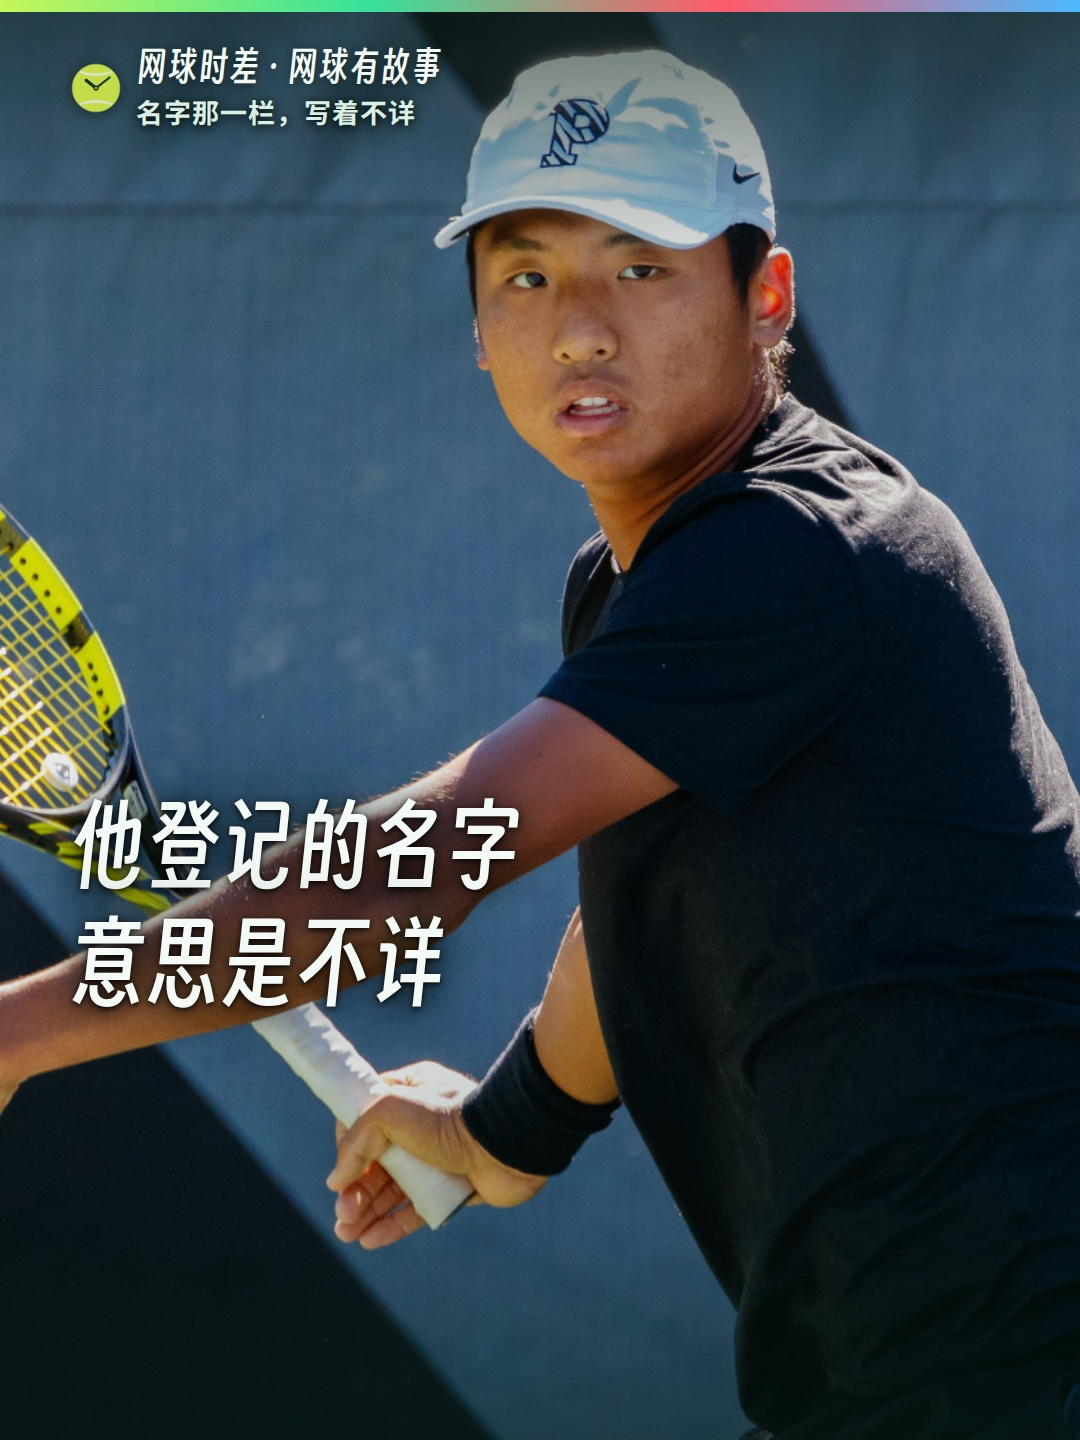
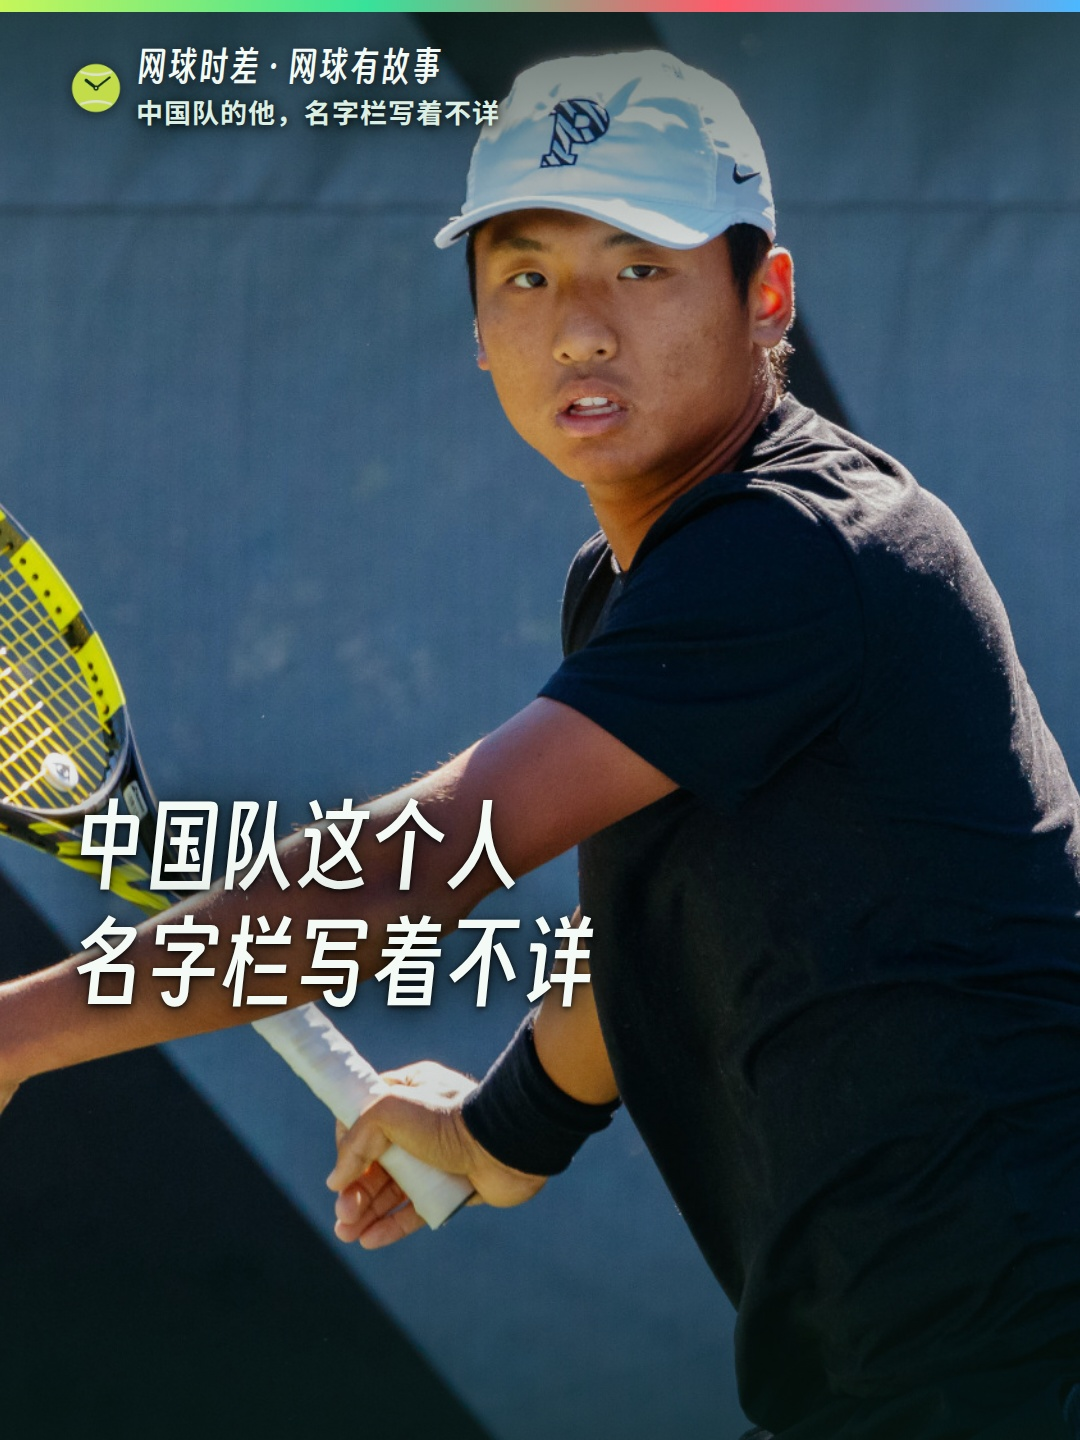
reel: render fnu-first-name-unknown

Changed region(s): [[0.0611, 0.5312, 0.55, 0.7188], [0.1222, 0.0625, 0.4889, 0.0938]]

diff --git a/output/2026-09-22/reel/fnu-first-name-unknown/copy.html b/output/2026-09-22/reel/fnu-first-name-unknown/copy.html
@@ -46,21 +46,23 @@
     </section>
     <section>
       <div class="label"><span>正文</span><button type="button" data-copy="body">复制正文</button></div>
-      <textarea id="body" readonly>尼敦坚赞：名字那一栏，系统写着「不详」
+      <textarea id="body" readonly>尼敦坚赞：中国队这名球员，名字栏写着「不详」
 
-国际网联的数据库里，中国队有一个球员的名字分成两栏。姓那一栏是 Nidunjianzan，名那一栏，写着三个字母：Fnu。
+国际网球联合会的球员数据库里，每个人的名字都分成两栏：姓，和名。
 
-Fnu 不是名字，是 First Name Unknown 的缩写——名字不详。
+中国队的尼敦坚赞，姓那一栏写着 Nidunjianzan，名那一栏写着三个字母：Fnu。
 
-这是美国政府系统的一个占位符。移民局、海关、国务院、留学生系统、社保，这几套系统的姓名模型都只有两栏：Given Name 和 Family Name。一个只有一个名字的人进来，系统填不满两栏，就往空的那一栏塞一个标记。
+Fnu 不是名字。它是 First Name Unknown 的缩写，意思就是「名字不详」。
 
-他叫尼敦坚赞，藏族，六岁以前住在拉萨。藏族的名字不分姓和名——他母亲、他父亲和他，三个人的名字各不相同，没有一个共同的姓。
+这三个字母是美国政府替他填的。美国的证件系统——签证、学籍、社保——姓名都只有两栏，一个人如果只有一个名字，系统填不满，就往空的那一栏塞一个标记。（对应的还有 LNU，Last Name Unknown。）
 
-普林斯顿大学体育部 2023 年为他写过一篇专题。里面提到，他小时候那个地区只有一片球场，后来那片场地上盖起了一家便利店。六岁那年他跟着母亲从拉萨搬到成都，也是那一年，他在成都看了一场表演赛，桑普拉斯输给了鲁塞德斯基。
+他当然有名字。尼敦坚赞是藏族，六岁以前住在拉萨。藏族人的名字不分姓和名——他母亲、他父亲和他，三个人的名字各不相同，没有一个共同的姓。
 
-后来他去了美国，进了普林斯顿。2023 年 5 月拿到职业生涯第一个冠军，ATP 单打最高排名到过第 800 位。那篇专题的开头写着：1973 年 ATP 开始发布单打排名，而在那之后，出生在西藏、拿到过积分的球员，只有他一个。
+六岁那年，他跟着母亲从拉萨搬到成都。再后来一个人去了美国，先在佛罗里达的网球学校念书，最后考进普林斯顿大学。于是他整个名字被塞进了「姓」那一栏，「名」那一栏，美国政府替他填了 Fnu——而这个标记一路跟到了职业网球的登记表上。
 
-2026 年 9 月戴维斯杯，中国队客场 0-4 负于挪威。挪威锁定胜局之后，他打了那场已经不影响结果的比赛，2-6、0-6 输给鲁德。赛后他对着挪威国家广播公司的镜头，笑着把这个名字的来路讲了一遍。
+普林斯顿大学 2023 年为他写过一篇专题，开头是这么算的：1973 年 ATP 开始发布单打排名，而在那之后，出生在西藏、拿到过积分的球员，只有他一个。2023 年 5 月，他在美国拿下职业生涯第一个冠军，ATP 单打最高排名到过第 800 位。
+
+2026 年 9 月，他代表中国队打戴维斯杯，客场对挪威。挪威锁定胜局之后，他打了那场已经不影响结果的比赛，2-6、0-6 输给鲁德。赛后他对着挪威的电视台，笑着把这个名字的来历讲了一遍。
 
 而这不是他一个人的事。同一份数据库里，特日格乐被切成 Rigele 和 Te，布云朝克特本来是一个完整的词，被切成 Yunchaokete 和 Bu；对照之下，张之臻是 Zhizhen 和 Zhang，本来就分得开。
 
